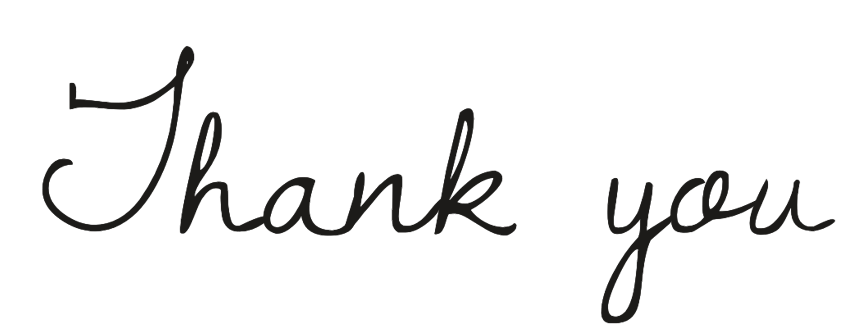
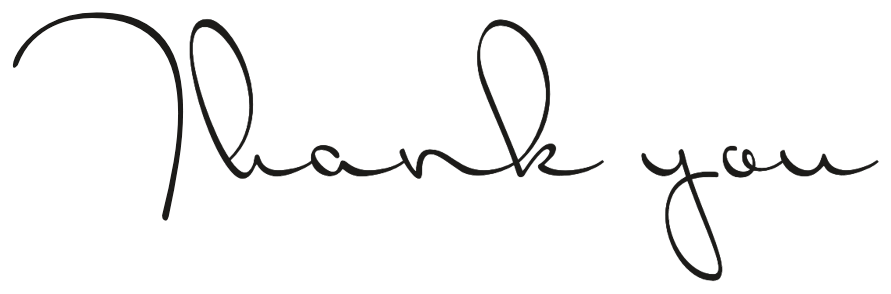
Letter the email's "Thank you" in Dr Carbfred, the wordmark's hand

Changed region(s): [[0.0311, 0.0306, 0.9965, 0.9796], [0.0, 0.1531, 0.0311, 0.2449]]

diff --git a/src/lib/emails.ts b/src/lib/emails.ts
@@ -11,9 +11,10 @@ import { site, absoluteUrl } from "@/lib/site";
  * Email-safe throughout: tables, inline styles, nothing that needs
  * JavaScript or a stylesheet to make sense. Comfortaa is offered to the
  * clients that can load it (Apple Mail, iOS); everywhere else falls back
- * to a rounded system face. The page titles' script hand can't be relied
- * on in any client, so "Thank you" is lettering in an image, with alt
- * text styled to stand in when images are blocked.
+ * to a rounded system face. The wordmark's hand, Dr Carbfred (the page
+ * titles' face), can't be relied on in any client, so "Thank you" is
+ * lettering in an image, with alt text styled to stand in when images
+ * are blocked.
  *
  * Images are served from the live site (site.url), so they appear in
  * real emails once that deploy is up. The preview script points them at
@@ -256,8 +257,8 @@ export function confirmationEmail({
     preview: "Your note has reached the studio — we’ll be in touch within two working days.",
     postscript: `You&rsquo;re receiving this because you wrote to us at interiorsbyb.net.<br>${site.name} &middot; London &amp; Lagos`,
     body: bodyRow(`
-      <img class="ibb-lettering" src="${absoluteUrl("/email/thank-you.png")}" width="260" alt="Thank you"
-           style="display:block;width:260px;max-width:100%;height:auto;border:0;margin:0 0 0 -10px;font-family:Georgia,serif;font-style:italic;font-size:40px;line-height:1.2;color:${INK};">
+      <img class="ibb-lettering" src="${absoluteUrl("/email/thank-you.png")}" width="280" alt="Thank you"
+           style="display:block;width:280px;max-width:100%;height:auto;border:0;margin:0;font-family:Georgia,serif;font-style:italic;font-size:40px;line-height:1.2;color:${INK};">
 
       ${rule(30)}
 
